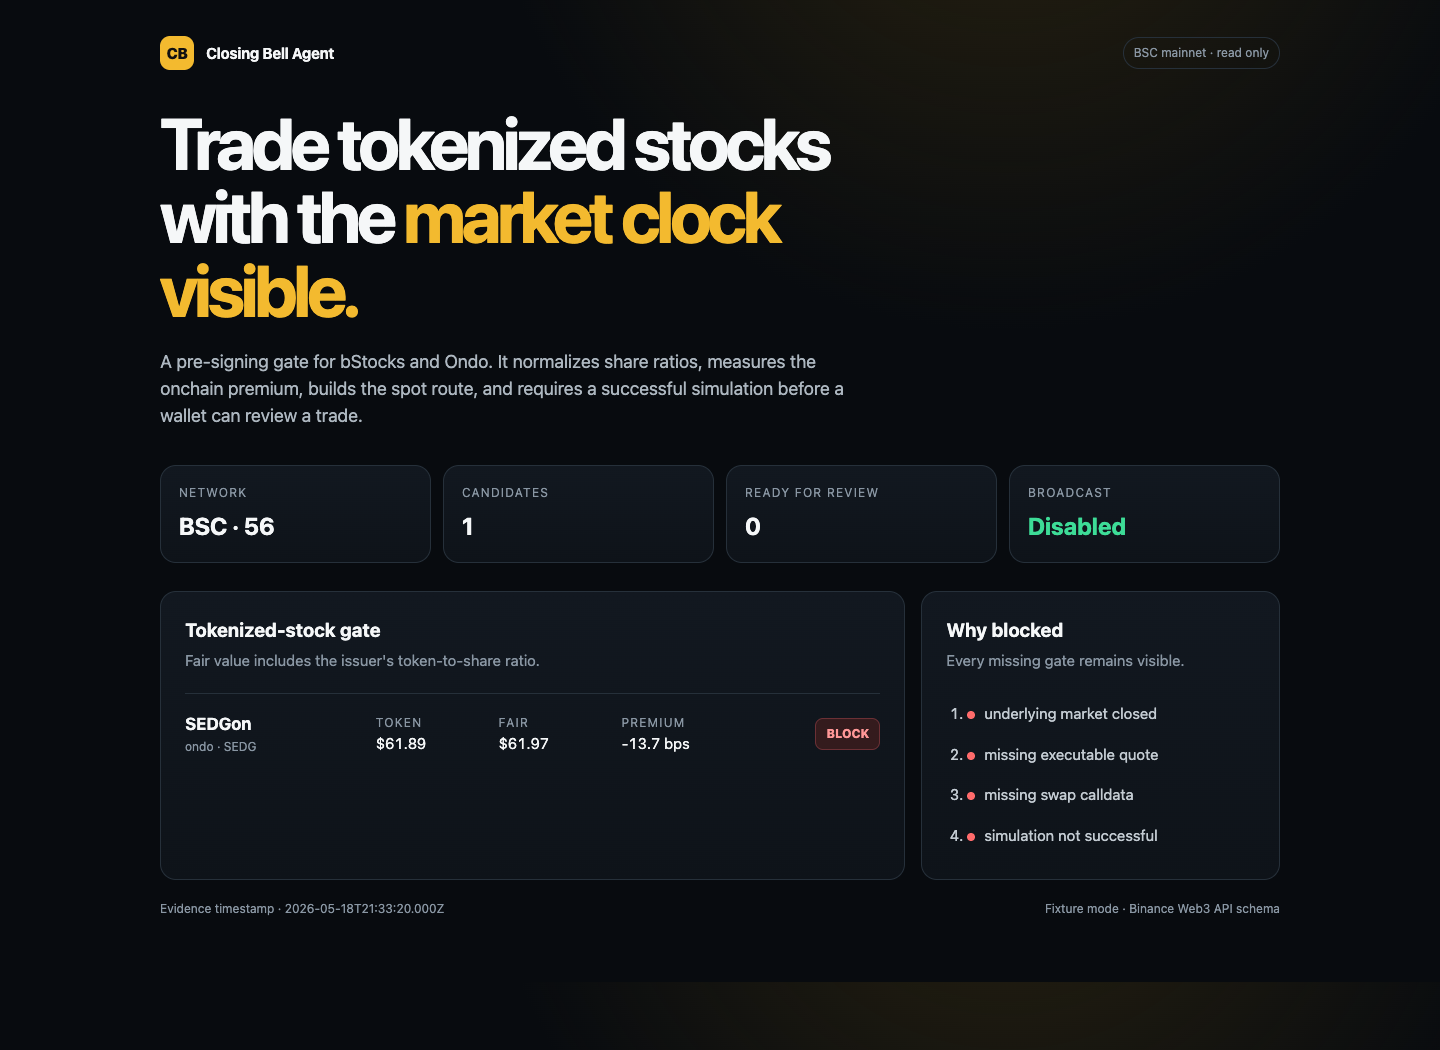
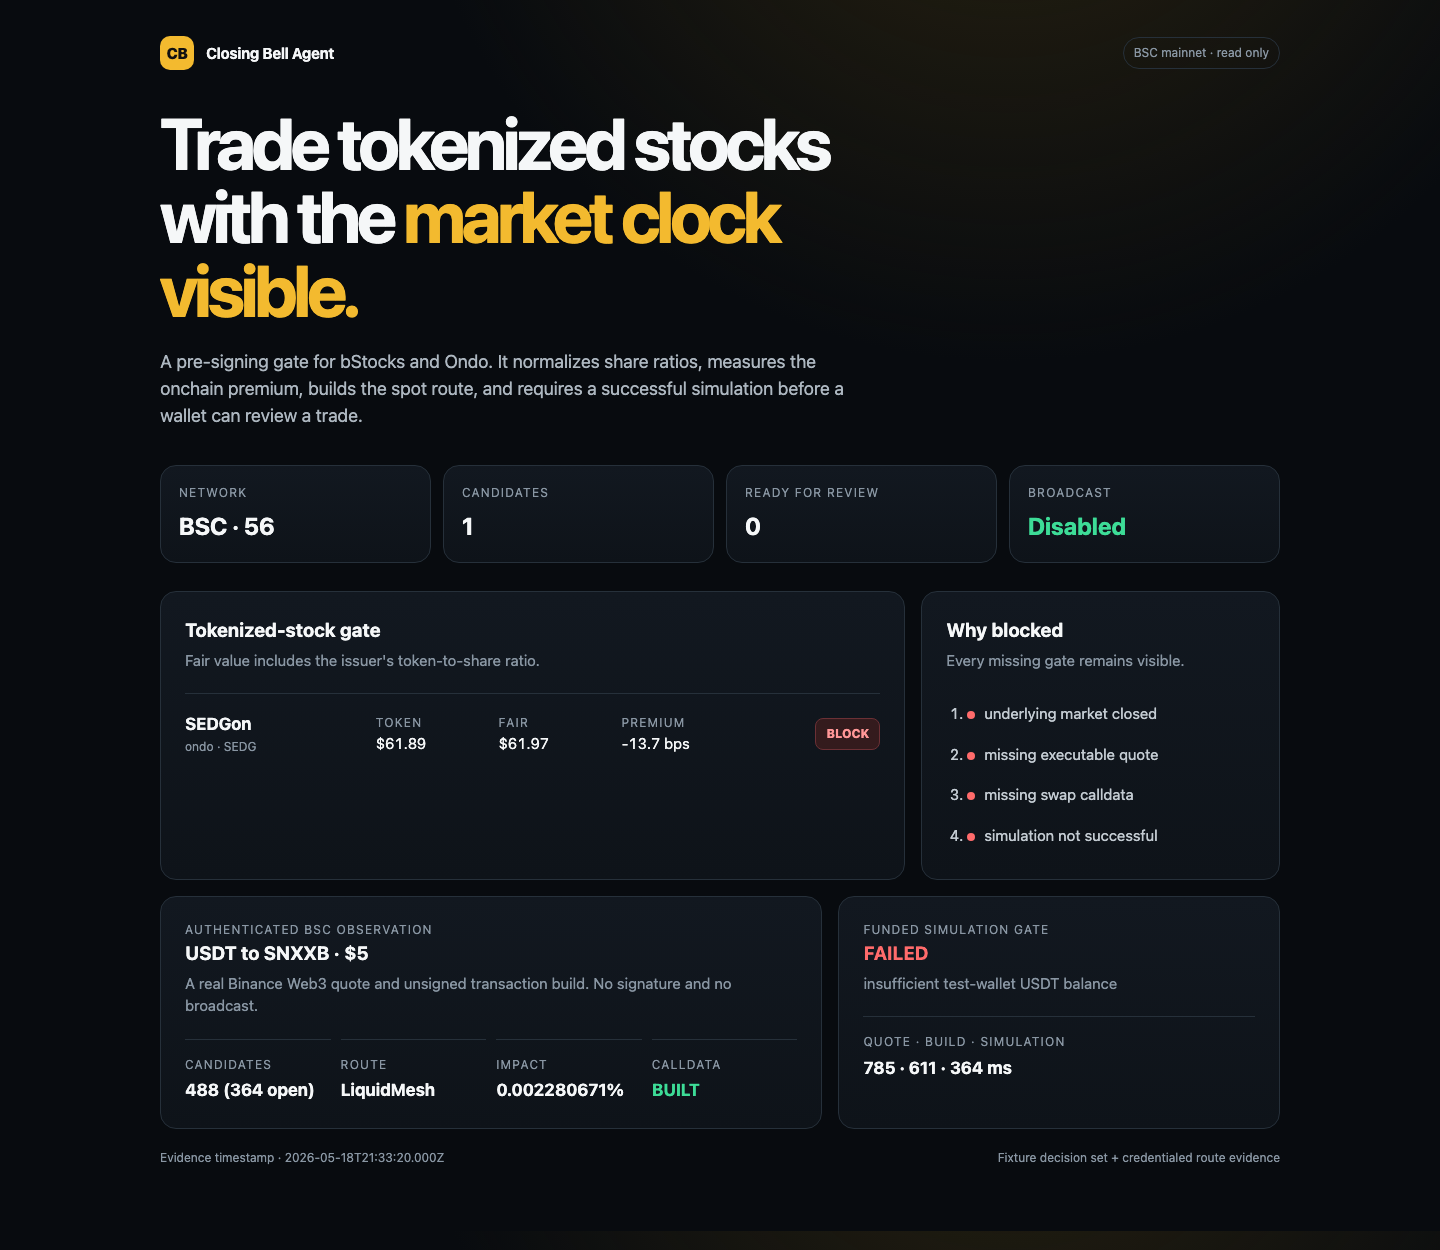
Add authenticated Binance route evidence

diff --git a/web/index.html b/web/index.html
@@ -33,8 +33,14 @@
     ol { margin:8px 0 0; padding-left:21px; }
     li { padding:9px 0; color:#c3cbd2; }
     .dot { width:8px; height:8px; display:inline-block; border-radius:50%; background:var(--red); margin-right:9px; }
+    .live { margin-top:16px; display:grid; grid-template-columns:1.2fr .8fr; gap:16px; }
+    .route-proof { display:grid; grid-template-columns:repeat(4,1fr); gap:10px; margin-top:18px; }
+    .proof-cell { border-top:1px solid var(--line); padding-top:12px; }
+    .proof-cell strong { display:block; margin-top:4px; font-size:17px; }
+    .blocked { color:var(--red); }
+    .safe { color:var(--green); }
     .foot { margin-top:20px; color:var(--muted); font-size:12px; display:flex; justify-content:space-between; }
-    @media (max-width:820px) { .metrics{grid-template-columns:1fr 1fr}.grid{grid-template-columns:1fr}.asset{grid-template-columns:1fr 1fr}.decision{justify-self:start}.asset div:nth-child(4){display:none} }
+    @media (max-width:820px) { .metrics{grid-template-columns:1fr 1fr}.grid,.live{grid-template-columns:1fr}.route-proof{grid-template-columns:1fr 1fr}.asset{grid-template-columns:1fr 1fr}.decision{justify-self:start}.asset div:nth-child(4){display:none} }
   </style>
 </head>
 <body>
@@ -58,7 +64,26 @@
       <ol id="reasons"></ol>
     </aside>
   </section>
-  <div class="foot"><span id="stamp">Loading evidence…</span><span>Fixture mode · Binance Web3 API schema</span></div>
+  <section class="live">
+    <div class="panel">
+      <div class="label">Authenticated BSC observation</div>
+      <h2 id="live-pair">Loading route…</h2>
+      <p class="sub">A real Binance Web3 quote and unsigned transaction build. No signature and no broadcast.</p>
+      <div class="route-proof">
+        <div class="proof-cell"><span class="label">Candidates</span><strong id="live-count">—</strong></div>
+        <div class="proof-cell"><span class="label">Route</span><strong id="live-vendor">—</strong></div>
+        <div class="proof-cell"><span class="label">Impact</span><strong id="live-impact">—</strong></div>
+        <div class="proof-cell"><span class="label">Calldata</span><strong class="safe" id="live-build">—</strong></div>
+      </div>
+    </div>
+    <aside class="panel">
+      <div class="label">Funded simulation gate</div>
+      <h2 class="blocked" id="live-simulation">—</h2>
+      <p class="sub" id="live-reason">—</p>
+      <div class="proof-cell"><span class="label">Quote · build · simulation</span><strong id="live-latency">—</strong></div>
+    </aside>
+  </section>
+  <div class="foot"><span id="stamp">Loading evidence…</span><span>Fixture decision set + credentialed route evidence</span></div>
 </main>
 <script>
   const money = v => v == null ? '—' : '$' + Number(v).toFixed(2);
@@ -70,6 +95,17 @@
     document.querySelector('#assets').innerHTML=report.candidates.map(x=>`<div class="asset"><div><div class="symbol">${x.symbol}</div><div class="ticker">${x.platformId} · ${x.underlyingTicker}</div></div><div><div class="label">Token</div><div class="num">${money(x.tokenPrice)}</div></div><div><div class="label">Fair</div><div class="num">${money(x.fairTokenPrice)}</div></div><div><div class="label">Premium</div><div class="num">${bps(x.premiumBps)}</div></div><span class="decision">${x.decision}</span></div>`).join('');
     const reasons=[...new Set(report.candidates.flatMap(x=>x.reasons))];
     document.querySelector('#reasons').innerHTML=reasons.map(x=>`<li><span class="dot"></span>${x.replaceAll('-',' ')}</li>`).join('');
+  });
+  fetch('/api/credentialed-observation').then(r=>r.json()).then(x=>{
+    const route=x.route;
+    document.querySelector('#live-pair').textContent=`${route.pair} · $${route.notionalUsd}`;
+    document.querySelector('#live-count').textContent=`${x.candidateCount} (${x.marketOpenCount} open)`;
+    document.querySelector('#live-vendor').textContent=route.vendor;
+    document.querySelector('#live-impact').textContent=`${route.priceImpactPercent}%`;
+    document.querySelector('#live-build').textContent=route.unsignedCalldataBuilt?'BUILT':'MISSING';
+    document.querySelector('#live-simulation').textContent=route.simulation.status;
+    document.querySelector('#live-reason').textContent=route.simulation.reason;
+    document.querySelector('#live-latency').textContent=`${route.latencyMs.quote} · ${route.latencyMs.build} · ${route.latencyMs.simulation} ms`;
   });
 </script>
 </body>

diff --git a/src/probe-route.js b/src/probe-route.js
@@ -1,0 +1,94 @@
+import fs from 'node:fs';
+import path from 'node:path';
+import { fileURLToPath } from 'node:url';
+import { performance } from 'node:perf_hooks';
+import { BinanceWeb3Client } from './binance-client.js';
+
+const USDT = '0x55d398326f99059fF775485246999027B3197955';
+const DEFAULT_TARGET = '0x9e82e3da8f1115b73d24bb24113ab836ffdab6b6'; // SNXXB
+const wallet = process.env.USER_WALLET_ADDRESS;
+const target = process.env.TARGET_RWA_ADDRESS || DEFAULT_TARGET;
+const amount = process.env.PROBE_AMOUNT_RAW || '5000000000000000000'; // 5 USDT on BSC
+const root = path.resolve(path.dirname(fileURLToPath(import.meta.url)), '..');
+const reportPath = path.join(root, 'reports', 'live-route-probe.json');
+
+if (!wallet) throw new Error('USER_WALLET_ADDRESS is required');
+
+const client = new BinanceWeb3Client({
+  apiKey: process.env.OC_API_KEY,
+  secretKey: process.env.OC_SECRET_KEY,
+});
+
+const quoteStarted = performance.now();
+const quoteResponse = await client.quote({
+  amount,
+  fromTokenAddress: USDT,
+  toTokenAddress: target,
+  userWalletAddress: wallet,
+});
+const quoteLatencyMs = Math.round(performance.now() - quoteStarted);
+const routes = Array.isArray(quoteResponse.data) ? quoteResponse.data : [];
+const route = routes[0];
+if (!route) {
+  const empty = { generatedAt: new Date().toISOString(), target, amount, routeCount: 0,
+    quoteLatencyMs, broadcastEnabled: false };
+  fs.mkdirSync(path.dirname(reportPath), { recursive: true });
+  fs.writeFileSync(reportPath, JSON.stringify(empty, null, 2));
+  console.log(JSON.stringify(empty, null, 2));
+  process.exit(0);
+}
+
+const buildStarted = performance.now();
+const swapResponse = await client.buildSwap({
+  amount,
+  fromTokenAddress: USDT,
+  toTokenAddress: target,
+  quoteId: route.quoteId,
+  userWalletAddress: wallet,
+});
+const buildLatencyMs = Math.round(performance.now() - buildStarted);
+const built = swapResponse.data || {};
+const evmTx = built.tx || built.swapTransaction || null;
+let simulation = null;
+let simulationLatencyMs = null;
+if (evmTx?.to && evmTx?.data) {
+  const simulationStarted = performance.now();
+  simulation = (await client.simulate({
+    from: evmTx.from || wallet,
+    to: evmTx.to,
+    value: String(evmTx.value || '0'),
+    data: evmTx.data,
+  })).data;
+  simulationLatencyMs = Math.round(performance.now() - simulationStarted);
+}
+
+const result = {
+  generatedAt: new Date().toISOString(),
+  target,
+  amount,
+  routeCount: routes.length,
+  latencyMs: { quote: quoteLatencyMs, build: buildLatencyMs, simulation: simulationLatencyMs },
+  bestRoute: {
+    vendorName: route.vendorName,
+    toTokenAmount: route.toTokenAmount,
+    tradeFeeUsd: route.tradeFee,
+    priceImpactPercent: route.priceImpactPercent,
+    fromHoneyPot: route.fromToken?.isHoneyPot ?? null,
+    toHoneyPot: route.toToken?.isHoneyPot ?? null,
+  },
+  build: {
+    executionMode: built.executionMode || null,
+    hasEvmTransaction: Boolean(evmTx?.to && evmTx?.data),
+    hasRfqTypedData: Boolean(built.rfq?.typedDataToSign),
+    responseKeys: Object.keys(built).sort(),
+  },
+  simulation: simulation ? {
+    status: simulation.status,
+    failReason: simulation.failReason || null,
+    balanceChangeCount: simulation.balanceChanges?.length || 0,
+  } : null,
+  broadcastEnabled: false,
+};
+fs.mkdirSync(path.dirname(reportPath), { recursive: true });
+fs.writeFileSync(reportPath, JSON.stringify(result, null, 2));
+console.log(JSON.stringify(result, null, 2));

diff --git a/src/binance-client.js b/src/binance-client.js
@@ -54,8 +54,10 @@ export class BinanceWeb3Client {
     return data;
   }
 
-  listRwaTokens(platformId) {
-    return this.request('GET', '/api/v1/dex/market/rwa/tokens', { query: { platformId } });
+  listRwaTokens(platformId, binanceChainId = '56') {
+    return this.request('GET', '/api/v1/dex/market/rwa/tokens', {
+      query: { binanceChainId, platformId },
+    });
   }
 
   getRwaPrices(addresses) {
@@ -72,9 +74,13 @@ export class BinanceWeb3Client {
     });
   }
 
-  buildSwap({ quoteId, userWalletAddress, slippagePercent = '0.5' }) {
+  buildSwap({ amount, fromTokenAddress, toTokenAddress, quoteId, userWalletAddress,
+    slippagePercent = '0.5' }) {
     return this.request('GET', '/api/v1/dex/aggregator/swap', {
-      query: { binanceChainId: '56', quoteId, userWalletAddress, slippagePercent },
+      query: {
+        binanceChainId: '56', amount, fromTokenAddress, toTokenAddress,
+        quoteId, userWalletAddress, slippagePercent,
+      },
     });
   }
 

diff --git a/src/server.js b/src/server.js
@@ -7,11 +7,20 @@ import { buildFixtureReport } from './fixture-report.js';
 const root = path.resolve(path.dirname(fileURLToPath(import.meta.url)), '..');
 const port = Number(process.env.PORT || 4173);
 const page = fs.readFileSync(path.join(root, 'web/index.html'));
+const credentialedObservation = JSON.parse(fs.readFileSync(
+  path.join(root, 'fixtures/credentialed-observation.json'),
+  'utf8',
+));
 
 const server = http.createServer((request, response) => {
   if (request.url === '/api/report') {
     response.writeHead(200, { 'Content-Type': 'application/json', 'Cache-Control': 'no-store' });
     response.end(JSON.stringify(buildFixtureReport()));
+    return;
+  }
+  if (request.url === '/api/credentialed-observation') {
+    response.writeHead(200, { 'Content-Type': 'application/json', 'Cache-Control': 'no-store' });
+    response.end(JSON.stringify(credentialedObservation));
     return;
   }
   if (request.url === '/' || request.url === '/index.html') {

diff --git a/src/scan.js b/src/scan.js
@@ -15,9 +15,18 @@ async function loadData() {
     secretKey: process.env.OC_SECRET_KEY,
   });
   const tokens = await client.listRwaTokens();
-  const addresses = tokens.data.map(token => token.tokenContractAddress).slice(0, 100);
-  const prices = await client.getRwaPrices(addresses);
-  return { tokens, prices };
+  const addresses = tokens.data.map(token => token.tokenContractAddress);
+  const batches = [];
+  const batchSize = Number(process.env.RWA_PRICE_BATCH_SIZE || 20);
+  for (let index = 0; index < addresses.length; index += batchSize) {
+    batches.push(addresses.slice(index, index + batchSize));
+  }
+  const priceResponses = [];
+  for (const batch of batches) priceResponses.push(await client.getRwaPrices(batch));
+  return {
+    tokens,
+    prices: { code: 0, success: true, data: priceResponses.flatMap(response => response.data) },
+  };
 }
 
 const { tokens, prices } = await loadData();

diff --git a/DX-LOG.md b/DX-LOG.md
@@ -12,14 +12,23 @@ This is a working lab notebook. It records only behavior actually observed while
 - The API documentation clearly exposes `tokenToShareRatio`, market-open status, reference price, quote price impact, and simulation balance changes. These fields are sufficient for a useful pre-signing decision product.
 - Local validation on 2026-09-19: 5 tests passed, including signing-path parity, query encoding, issuer ratio normalization, market-closed rejection, and simulation-gated review.
 
-## Pending credentialed observations
+## 2026-09-19 — first authenticated request
 
-The following will be filled only after a Binance Web3 project key is issued:
+- A project key with Market, Trade, Transaction, Wallet, B402 Payments, and DeFi permissions was created in the Binance Web3 developer portal.
+- The first authenticated token-list request succeeded, but the immediate price request failed with HTTP `414` because the client placed 100 comma-separated contract addresses in the signed GET URL.
+- The RWA price documentation permits at most 100 addresses, but that documented maximum exceeded the effective request-target limit in this route. The client now filters the token list to BSC before pricing and defaults to 20-address batches.
+- The failure response body did not contain a Binance business `msg`, so the client could report only `Binance Web3 API 414: request failed`. A structured error for proxy-level failures would make the limit easier to diagnose.
+- After batching, the authenticated BSC token and price scan completed successfully.
+- A live $5 USDT → SNXXB quote returned one LiquidMesh route: estimated trade fee `$0.02079493`, price impact `0.0022806710%`, and no honeypot flags.
+- The same quote built unsigned EVM calldata with `executionMode=SWAP`. This differs from the Trading API statement that equity/RWA tokens always return `RFQ`; at least this BStock/LiquidMesh route used the normal swap path.
+- Transaction API simulation returned `FAILED` with `execution reverted: BEP20: transfer amount exceeds balance`, which is correct for the configured read-only wallet because it has no BSC USDT. Closing Bell Agent kept the candidate blocked and did not broadcast.
+- The authenticated BSC scan returned 488 tokenized-stock candidates; 364 reported an open underlying market at the observation time.
+- The latest route probe measured 785 ms for quote, 611 ms for transaction build, and 364 ms for simulation. These are single observations, not reliability or performance claims.
 
-- first authenticated request latency and response headers;
-- live bStocks/Ondo token count on BSC;
-- quote availability by vendor;
-- transaction-simulation success and failure examples;
-- rate-limit behavior and error clarity.
+## Still unmeasured
 
-No latency or reliability claim is inferred from documentation examples.
+- response headers and sustained rate-limit behavior;
+- a successful funded transaction simulation;
+- quote availability across multiple vendors and observation windows.
+
+No reliability claim is inferred from this single credentialed observation.

diff --git a/SUBMISSION.md b/SUBMISSION.md
@@ -32,11 +32,12 @@ A candidate is `BLOCK` until all evidence gates pass. A candidate becomes `REVIE
 - The fair-value test proves the issuer ratio is applied.
 - The policy tests prove market closure and failed simulation block a trade.
 - The bundled dashboard runs without credentials using the documented SEDGon fixture.
+- An authenticated BSC scan returned 488 tokenized-stock candidates, 364 with the underlying market reported open.
+- A live $5 USDT to SNXXB probe returned a LiquidMesh quote and unsigned `SWAP` calldata.
+- Transaction simulation correctly blocked the unfunded test wallet with an insufficient-balance revert; no signature or broadcast occurred.
 
 ## Remaining account-bound work
 
-1. Register for the hackathon and create a Binance Web3 API project.
-2. Record credentialed endpoint latency and errors in `DX-LOG.md`.
-3. Run a small BSC mainnet quote and Transaction API simulation.
-4. Publish the public repository and optional four-minute demo.
-5. Submit before 2026-10-11.
+1. Register for the hackathon.
+2. Publish the public repository and optional four-minute demo.
+3. Submit before 2026-10-11.

diff --git a/README.md b/README.md
@@ -26,6 +26,10 @@ npm run scan
 
 The live scanner uses BSC mainnet only (`binanceChainId=56`) and supports the hackathon's bStocks/Ondo scope. The API client signs the exact raw request path, including the required `/build` prefix.
 
+## Credentialed mainnet evidence
+
+On 2026-09-18 UTC, an authenticated BSC scan returned 488 tokenized-stock candidates, including 364 whose underlying market was reported open. A read-only $5 USDT to SNXXB probe returned one LiquidMesh route, built unsigned EVM calldata, and reached the Transaction API simulation gate. Simulation failed because the test wallet had no BSC USDT, so the agent blocked the route and did not broadcast. The sanitized observation is committed in `fixtures/credentialed-observation.json`; credentials and wallet details are excluded.
+
 ## Execution policy
 
 A candidate reaches `REVIEW` only when:
